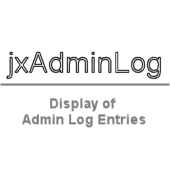
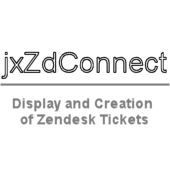
Readme corrected. Use of custom fields added

Changed region(s): [[0.0, 0.2941, 1.0, 0.4706], [0.0588, 0.5588, 0.9118, 0.7647]]

diff --git a/copy_this/modules/jxmods/jxzendeskconnect/application/controllers/admin/jxzendeskconnect_details.php b/copy_this/modules/jxmods/jxzendeskconnect/application/controllers/admin/jxzendeskconnect_details.php
@@ -214,13 +214,15 @@ class jxzendeskconnect_details extends oxAdminDetails {
     {
         $myConfig = oxRegistry::getConfig();
         
-        $sUrl = $myConfig->getConfigParam('sJxZendeskConnectServerUrl') . '/rest/api/2/issue/';
+        /*$sUrl = $myConfig->getConfigParam('sJxZendeskConnectServerUrl') . '/rest/api/2/issue/';
         //--$sProject = $myConfig->getConfigParam('sJxZendeskConnectProject');
         $sAssignee = $myConfig->getConfigParam('sJxZendeskConnectAssignee');
         $sUsername = $myConfig->getConfigParam('sJxZendeskConnectUser');
         $sPassword = $myConfig->getConfigParam('sJxZendeskConnectPassword');
         $sFieldCustomerNumber = 'customfield_' . $myConfig->getConfigParam('sJxZendeskConnectCustomerNumber');
-        $sFieldCustomerEMail = 'customfield_' . $myConfig->getConfigParam('sJxZendeskConnectCustomerEMail');
+        $sFieldCustomerEMail = 'customfield_' . $myConfig->getConfigParam('sJxZendeskConnectCustomerEMail');*/
+        $sCustomFieldEMail = $myConfig->getConfigParam('sJxZendeskConnectCustomerEMail');
+        $sCustomFieldOrderNo = $myConfig->getConfigParam('sJxZendeskConnectOrderNumber');
 
         $sTicketMode = $this->getConfig()->getRequestParameter( 'jxzendesk_ticketmode' );
         $sTicketSubject = $this->getConfig()->getRequestParameter( 'jxzendesk_summary' );
@@ -238,18 +240,21 @@ class jxzendeskconnect_details extends oxAdminDetails {
                 $sCustomerNumber = $oUser->oxuser__oxcustnr->value;
                 $sUserName = $oUser->oxuser__oxfname->value . ' ' . $oUser->oxuser__oxlname->value;
                 $sUserMail = $oUser->oxuser__oxusername->value;
+                $sOrderNo = $oOrder->oxorder__oxordernr->value;
+                
             } else {
                 $oUser = oxNew("oxuser");
                 if ($oUser->load($soxId)) {
                     $sCustomerNumber = $oUser->oxuser__oxcustnr->value;
                     $sUserName = $oUser->oxuser__oxfname->value . ' ' . $oUser->oxuser__oxlname->value;
                     $sUserMail = $oUser->oxuser__oxusername->value;
+                    $sOrderNo = 0;
                 }
             }
         }
         
 
-        if ($sTicketMode == 'internal') {
+        if (($sTicketMode == 'internal') and ($sOrderNo > 0)) {
             $aPostData = array(
                             'ticket' => array(
                                             'requester' => array(
@@ -259,15 +264,62 @@ class jxzendeskconnect_details extends oxAdminDetails {
                                             'subject' => $sTicketSubject,
                                             'description' => $sTicketDescription,
                                             'custom_fields' => array(
-                                                                'id' => 25857169, 
-                                                                'value' => $sUserName . ' (' . $sUserMail . ')'
+                                                                    array(
+                                                                        'id' => $sCustomFieldEMail, 
+                                                                        'value' => $sUserName . ' (' . $sUserMail . ')'
+                                                                        ),
+                                                                    array(
+                                                                        'id' => $sCustomFieldOrderNo,
+                                                                        'value' => $sOrderNo
+                                                                        )
+                                                                    ),
+                                            'type' => $sTicketType,
+                                            'due_at' => $sDueDate
+                                            )
+                            );
+            }
+        elseif (($sTicketMode == 'internal') and ($sOrderNo <= 0)) {
+            $aPostData = array(
+                            'ticket' => array(
+                                            'requester' => array(
+                                                            'name' => 'Kathrin Barthel',
+                                                            'email' => 'support-admin@jaspona.de'
+                                                            ),
+                                            'subject' => $sTicketSubject,
+                                            'description' => $sTicketDescription,
+                                            'custom_fields' => array(
+                                                                    array(
+                                                                        'id' => $sCustomFieldEMail, 
+                                                                        'value' => $sUserName . ' (' . $sUserMail . ')'
+                                                                        )
                                                                 ),
                                             'type' => $sTicketType,
                                             'due_at' => $sDueDate
                                             )
                             );
 
-        } else {
+            } 
+        elseif (($sTicketMode == 'customer') and ($sOrderNo > 0)) {
+            $aPostData = array(
+                            'ticket' => array(
+                                            'requester' => array(
+                                                            'name' => $sUserName,
+                                                            'email' => $sUserMail
+                                                            ),
+                                            'subject' => $sTicketSubject,
+                                            'description' => $sTicketDescription,
+                                            'custom_fields' => array(
+                                                                    array(
+                                                                        'id' => $sCustomFieldOrderNo, 
+                                                                        'value' => $sOrderNo
+                                                                        )
+                                                                ),
+                                            'type' => $sTicketType,
+                                            'due_at' => $sDueDate
+                                            )
+                            );
+        }
+        else {
             $aPostData = array(
                             'ticket' => array(
                                             'requester' => array(
@@ -283,9 +335,11 @@ class jxzendeskconnect_details extends oxAdminDetails {
         }
         
         
-        $sPostData = json_encode( $aPostData, JSON_FORCE_OBJECT );
+        $sPostData = json_encode( $aPostData );
         //-------$sQueryParam = urlencode( 'type:ticket status<solved "' . $sUserMail . '"' );
-        //--echo '<pre>'.$sUrl.'</pre>';
+        /*echo '<pre>';
+        echo ($sPostData);
+        echo '</pre>';*/
 
         //$aResult = $this->_curlWrap('/search.json?query='.urlencode('type:ticket status<solved "jobarthel@gmail.com"'), null, 'GET');
         //echo '/search.json?query='.$sQueryParam;

diff --git a/copy_this/modules/jxmods/jxzendeskconnect/metadata.php b/copy_this/modules/jxmods/jxzendeskconnect/metadata.php
@@ -9,14 +9,10 @@ $sMetadataVersion = '1.1';
  */
 $aModule = array(
     'id'           => 'jxzendeskconnect',
-    'title'        => 'jxZendeskConnect - Connect OXID eShop with Zendesk',
+    'title'        => 'jxZendeskConnect - Connects OXID eShop with Zendesk',
     'description'  => array(
-                        'de' => 'Anzeige der protokollierten Admin Aktionen an jedem Objekt und als Gesamtbericht.<br /><br />'
-                                . '(um das Logging zu aktivieren muss in der Datei config.inc.php die Einstellung<br />'
-                                . '<code>$this->blLogChangesInAdmin = false;</code> auf <code>True</code> geändert werden)<br /><br />',
-                        'en' => 'Display of Logged Administrative Actions for each Object and as full Report.<br /><br />'
-                                . '(for enabling the logging you have to change the setting<br />'
-                                . '<code>$this->blLogChangesInAdmin = false;</code> to <code>True</code>)<br /><br />'
+                        'de' => 'Anzeigen und Erstellen von Zendesk Tickets für Shop-Kunden',
+                        'en' => 'Display and Creation of Zendesk Tickets for Shop Customers'
                         ),
     'thumbnail'    => 'jxzendeskconnect.png',
     'version'      => '0.1',
@@ -65,19 +61,19 @@ $aModule = array(
                                 'type'  => 'str', 
                                 'value' => ''
                                 ),
-                        array(
+                        /*array(
                                 'group' => 'JXZENDESKCONNECT_LOGIN', 
                                 'name'  => 'sJxZendeskConnectPassword', 
                                 'type'  => 'str', 
                                 'value' => ''
-                                ),
+                                ),*/
                         array(
                                 'group' => 'JXZENDESKCONNECT_LOGIN', 
                                 'name'  => 'sJxZendeskConnectToken', 
                                 'type'  => 'str', 
                                 'value' => ''
                                 ),
-                        array(
+                        /*array(
                                 'group' => 'JXZENDESKCONNECT_DEFAULTS', 
                                 'name'  => 'sJxZendeskConnectProject', 
                                 'type'  => 'str', 
@@ -88,7 +84,7 @@ $aModule = array(
                                 'name'  => 'sJxZendeskConnectAssignee', 
                                 'type'  => 'str', 
                                 'value' => ''
-                                ),
+                                ),*/
                         array(
                                 'group' => 'JXZENDESKCONNECT_FIELDS', 
                                 'name'  => 'sJxZendeskConnectCustomerEMail', 

diff --git a/copy_this/modules/jxmods/jxzendeskconnect/application/views/admin/de/jxzendeskconnect_lang.php b/copy_this/modules/jxmods/jxzendeskconnect/application/views/admin/de/jxzendeskconnect_lang.php
@@ -52,7 +52,6 @@ $aLang = array(
     
         'SHOP_MODULE_GROUP_JXZENDESKCONNECT_SERVER' => 'Zendesk Server',
         'SHOP_MODULE_sJxZendeskConnectServerUrl'   => 'Server URL',
-        'SHOP_MODULE_sJxZendeskConnectProject'     => 'JIRA Projekt Schl&uuml;ssel',
         'SHOP_MODULE_GROUP_JXZENDESKCONNECT_LOGIN'  => 'Zendesk Anmeldung',
         'SHOP_MODULE_sJxZendeskConnectUser'         => 'Benutzer',
         'SHOP_MODULE_sJxZendeskConnectPassword'     => 'Passwort',
@@ -60,8 +59,9 @@ $aLang = array(
         'SHOP_MODULE_GROUP_JXZENDESKCONNECT_DEFAULTS' => 'Standard Werte',
         'SHOP_MODULE_sJxZendeskConnectProject'     => 'Projekt Schl&uuml;ssel',
         'SHOP_MODULE_sJxZendeskConnectAssignee'    => 'Bearbeiter',
-        'SHOP_MODULE_GROUP_JXZENDESKCONNECT_FIELDS' => 'Benutzerdefinierte Jira-Felder',
+        'SHOP_MODULE_GROUP_JXZENDESKCONNECT_FIELDS' => 'Benutzerdefinierte Zendesk-Felder',
         'SHOP_MODULE_sJxZendeskConnectCustomerNumber' => 'Feld ID f&uuml;r Kundennummer',
+        'SHOP_MODULE_sJxZendeskConnectOrderNumber' => 'Feld ID f&uuml;r Bestellnummer',
         'SHOP_MODULE_sJxZendeskConnectCustomerEMail' => 'Feld ID f&uuml;r Kunden E-Mail',
     
 );

diff --git a/README.md b/README.md
@@ -1,6 +1,6 @@
 # jxZendeskConnect #
 
-OXID eShop Admin Extension for Connecting with Atlassian JIRA
+OXID eShop Admin Extension for Connecting with Zendesk Service
 
 
 ## OXID Setup ##
@@ -8,35 +8,35 @@ OXID eShop Admin Extension for Connecting with Atlassian JIRA
 For installing and using the module, you have to proceed the following steps.
 
 1. Unzip the complete file with all the folder structures and upload the content of the folder copy_this to the root folder of your shop.
-2. After this navigate in the admin backend of the shop to _Extensions_ - _Modules_. Select the module _jxJiraConnect_ and click on `Activate`.
+2. After this navigate in the admin backend of the shop to _Extensions_ - _Modules_. Select the module _jxZendeskConnect_ and click on `Activate`.
 4. Switch to the tab _Settings_ and setup the fields
-    * JIRA Server Url eg. https://jira.myserver.vom
-    * User and Password, eg. JiraUser / mypassword
+    * Zendesk Server Url eg. https://myserver.zendesk.com
+    * User and Toekn, eg. ZendeskUser / mytolen
     * Values for project and author
-    * Field numbers (from JIRA) for customer no. and e-mail
+    * Custom Field IDs (from Zendesk) for customer (name and) e-mail and the order number
 
-## JIRA Setup ##
+## Zendesk Setup ##
 
-The issues created by the module _jxJiraConnect_ have to have attributes which allows to assign these issues to customers. Therefore two additional custom fields have to be defined in JIRA.
+The tickets created by the module _jxZendeskConnect_ have to have attributes which allows to assign these tickets to customers. Therefore two additional custom fields have to be defined in Zendesk.
 
 ## Screenshots ##
 
 #### Settings ####
-![Object History Log](https://github.com/job963/jxJiraConnect/raw/master/docs/img/settings-de.png)
+![Object History Log](https://github.com/job963/jxZendeskConnect/raw/master/docs/img/settings-de.png)
 
 #### Issue Info for each User ####
-![Full Log Report](https://github.com/job963/jxJiraConnect/raw/master/docs/img/user-main-de.png)
+![Full Log Report](https://github.com/job963/jxZendeskConnect/raw/master/docs/img/user-main-de.png)
 
 #### Issues of a User ####
-![Full Log Report](https://github.com/job963/jxJiraConnect/raw/master/docs/img/user-jiraissues-de.png)
+![Full Log Report](https://github.com/job963/jxZendeskConnect/raw/master/docs/img/user-jiraissues-de.png)
 
 #### Issue Info for each Order/User ####
-![Full Log Report](https://github.com/job963/jxJiraConnect/raw/master/docs/img/order-main-de.png)
+![Full Log Report](https://github.com/job963/jxZendeskConnect/raw/master/docs/img/order-main-de.png)
 
 #### Issues of a User/Order ####
-![Full Log Report](https://github.com/job963/jxJiraConnect/raw/master/docs/img/user-jiraissues-de.png)
+![Full Log Report](https://github.com/job963/jxZendeskConnect/raw/master/docs/img/user-jiraissues-de.png)
 
 #### All open Issues ####
-![Full Log Report](https://github.com/job963/jxJiraConnect/raw/master/docs/img/user-allissues-de.png)
+![Full Log Report](https://github.com/job963/jxZendeskConnect/raw/master/docs/img/user-allissues-de.png)
 
 
